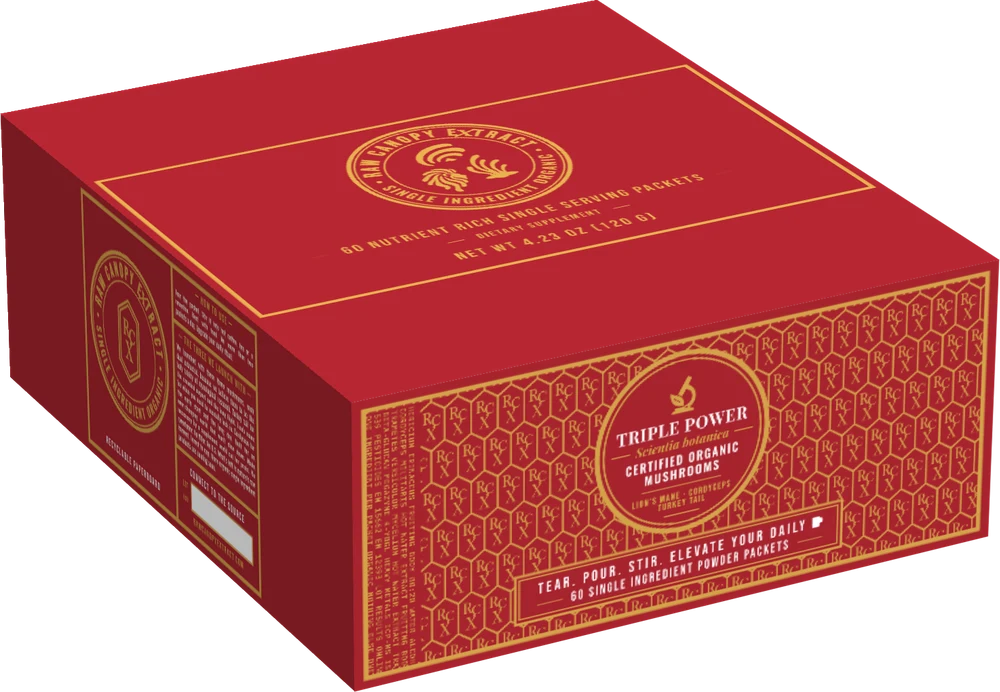
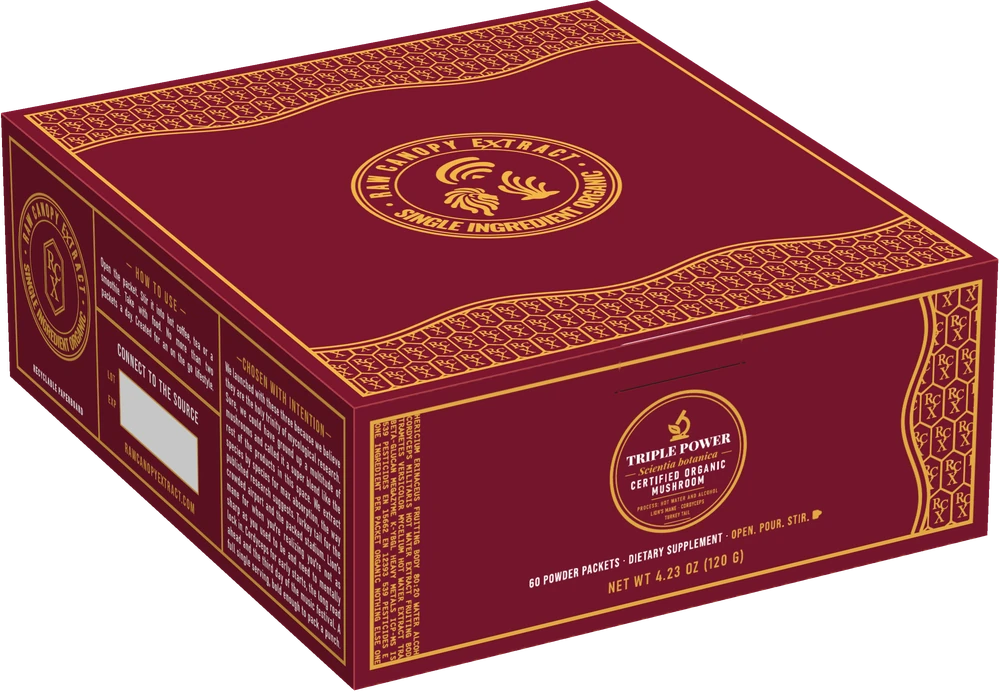
Shop: Triple Power 60 shows approved Nov 10 art; About: remove red X from Scott's own kayak photo
Claude-Session: https://claude.ai/code/session_011mpYY9vyP7JEuSVwYh3maR

diff --git a/index.html b/index.html
@@ -1808,7 +1808,7 @@ html body section.pl-box.pl-hero.pl-k-home.pl-k-home.pl-k-home{display:none !imp
 </article>
 <article data-box="60" style="border:1px solid rgba(212,162,74,.2);background:#5C1319;padding:16px;display:flex;flex-direction:column;container-type:inline-size">
 <div data-pack-stage="box" style="position:relative;aspect-ratio:1/.8;background:radial-gradient(70% 55% at 50% 42%,#2a2622 0%,#0d0c0b 60%,#000 100%);margin:-16px -16px 20px;overflow:hidden">
-<img src="assets/photo/pack/rcx-box-60-combo.webp?v=1" alt="Triple Power 60 count box" style="position:absolute;left:50%;top:50%;width:104%;height:auto;max-width:none;transform:translate(-50%,-50%);display:block" loading="lazy" decoding="async">
+<img src="assets/photo/pack/rcx-box-60-combo.webp?v=2" alt="Triple Power 60 count box" style="position:absolute;left:50%;top:50%;width:104%;height:auto;max-width:none;transform:translate(-50%,-50%);display:block" loading="lazy" decoding="async">
 </div>
 <h2 style="font-family:'Playfair Display',serif;font-weight:500;font-size:clamp(26px,2.4vw,36px);color:#F1ECE1;margin:0 0 8px;white-space:nowrap">Triple Power</h2>
 <p class="sh-count" style="font-family:\'Bebas Neue\',sans-serif;margin:0 0 14px;text-align:center"><span class="sh-top"><span class="sh-n">60</span><span class="sh-pk">PACKETS</span></span><span class="sh-l">2&nbsp;GRAMS&nbsp;EACH</span></p>
@@ -6057,6 +6057,6 @@ html body .rcx-row.rcx-row .rcx-marble.rcx-txt span[data-m="rl-name"][data-m="rl
 <style id="why-dash-phone-nov7">/* Nov 7 (Scott), phone: short gold dash left and right of WHY WE'RE DIFFERENT, same as IN THE MAGAZINES and OUR PRODUCTS; letters a touch tighter so the line and both dashes fit on one line */
 @media (max-width:767px){html body .hg .hg-title{display:flex !important;align-items:center;justify-content:center;gap:12px;white-space:nowrap}html body .hg .hg-title > span{letter-spacing:.02em !important;font-size:min(38px,calc((100vw - 112px) / 7.2)) !important}html body .hg .hg-title::before,html body .hg .hg-title::after{content:"";flex:0 0 auto;width:26px;height:2px;background:#D4A24A;position:relative;top:-.04em}}
 </style>
-<script src="license-overlay.js?v=1"></script>
+<script src="license-overlay.js?v=2"></script>
 </body>
 </html>

diff --git a/license-overlay.js b/license-overlay.js
@@ -57,7 +57,6 @@
     "how-gym-coffee-crop": [U, "No owner found, looks AI made"],
     "why-sunrise": [U, "No owner, looks AI made"],
     "tt-fest-wristbands": [U, "No owner, AI image from StockCake"],
-    "about-kayaks": [U, "No match anywhere online. Probably yours?"],
     /* REPLACE: can't be fixed with permission */
     "receipts-tennis-noblog": [R, "News photo of a real tennis player"],
     "receipts-tennis-wide": [R, "News photo of a real tennis player"],
